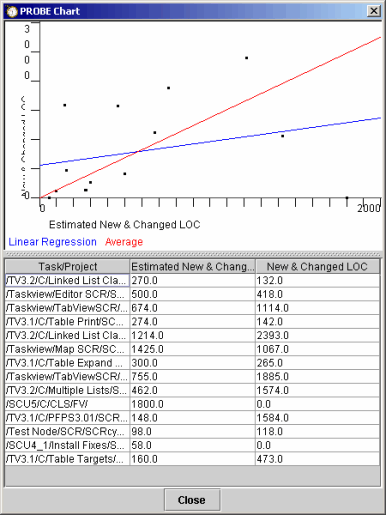
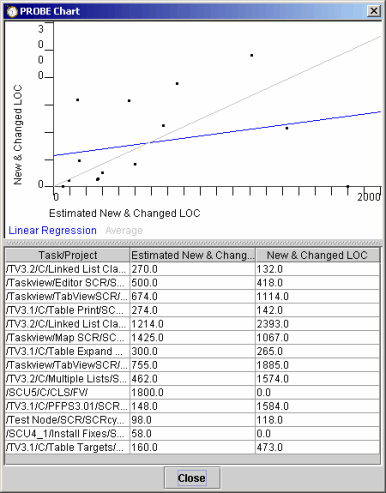
New screen shot
git-svn-id: https://svn.code.sf.net/p/processdash/code/trunk@653 560cad82-bde2-470f-af40-e4e1f8d6548a

diff --git a/pspdash/Templates/help/Topics/Planning/UsingProbeTool.html b/pspdash/Templates/help/Topics/Planning/UsingProbeTool.html
@@ -117,10 +117,14 @@ is chosen by clicking on the "Chart" button.</p>
 <p><center><img src="../../Images/ProbeChart.png"></center></p>
 
 <P>The plot will show a scatterplot of the data being used for the regression 
-calculations and two lines passing through the data.  The blue line shows the 
+calculations and two lines passing through the data.  A blue line shows the 
 line as projected from <i>B</i><sub>0</sub> and <i>B</i><sub>1</sub> 
-calculated using linear regression, and the red line shows the line as 
-projected from the averaging calculation.  Many times this visual 
+calculated using linear regression, and a red line shows the line as 
+projected from the averaging calculation.  Only one of these lines will be in 
+color if you've chosen one of the standard PROBE estimating methods.  In this 
+case, the other line is shown in grey.  If you choose a custom estimation 
+method (i.e. you are comparing different sets of data than what the PROBE 
+method calls for) both lines will show in color.  Many times this visual 
 representation of the data can provide insights that straight numbers may 
 not.</p>
 
